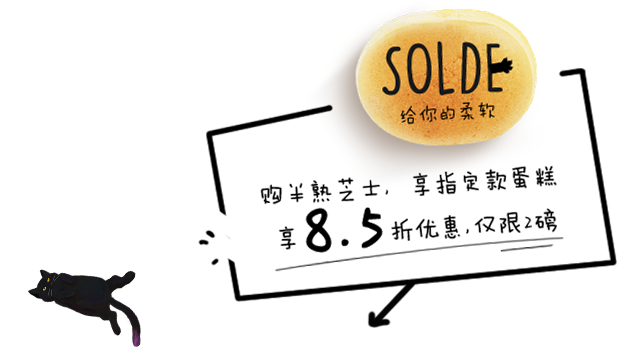
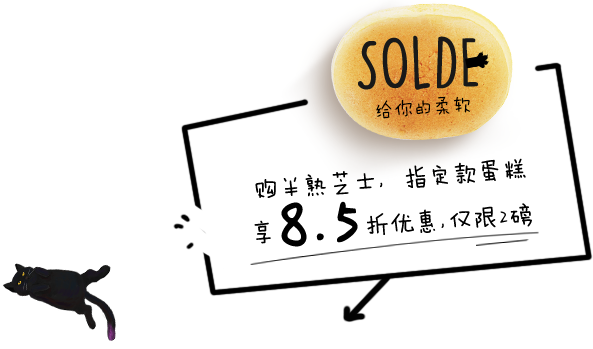
update files

diff --git a/src/cheese/js/cheeseRare.js b/src/cheese/js/cheeseRare.js
@@ -227,12 +227,12 @@
         "a2":{"x":0,"y":0,"w":180,"h":193,"offX":1,"offY":2,"sourceW":181,"sourceH":197,"duration":40}};
 
     var sloganMcData = {
-        "s6":{"x":0,"y":0,"w":591,"h":347,"offX":27,"offY":0,"sourceW":628,"sourceH":352,"duration":30},
-        "s1":{"x":593,"y":0,"w":615,"h":333,"offX":3,"offY":0,"sourceW":628,"sourceH":352,"duration":10},
-        "s2":{"x":1210,"y":0,"w":613,"h":333,"offX":5,"offY":0,"sourceW":628,"sourceH":352,"duration":10},
-        "s3":{"x":593,"y":666,"w":556,"h":326,"offX":66,"offY":3,"sourceW":628,"sourceH":352,"duration":3},
-        "s4":{"x":593,"y":335,"w":551,"h":329,"offX":67,"offY":0,"sourceW":628,"sourceH":352,"duration":3},
-        "s5":{"x":0,"y":349,"w":591,"h":347,"offX":27,"offY":0,"sourceW":628,"sourceH":352,"duration":6}};
+        "s6":{"x":0,"y":0,"w":591,"h":341,"offX":2,"offY":0,"sourceW":593,"sourceH":349,"duration":30},
+        "s1":{"x":595,"y":686,"w":593,"h":327,"offX":0,"offY":0,"sourceW":593,"sourceH":349,"duration":10},
+        "s2":{"x":0,"y":686,"w":593,"h":327,"offX":0,"offY":0,"sourceW":593,"sourceH":349,"duration":10},
+        "s3":{"x":1190,"y":0,"w":552,"h":323,"offX":41,"offY":0,"sourceW":593,"sourceH":349,"duration":3},
+        "s4":{"x":593,"y":0,"w":551,"h":323,"offX":42,"offY":0,"sourceW":593,"sourceH":349,"duration":3},
+        "s5":{"x":0,"y":343,"w":591,"h":341,"offX":2,"offY":0,"sourceW":593,"sourceH":349,"duration":6}};
 
     var footerCatMcData = {
         "f4":{"x":0,"y":0,"w":117,"h":236,"offX":3,"offY":2,"sourceW":122,"sourceH":240,"duration":6},

diff --git a/gulpfile-rev.js b/gulpfile-rev.js
@@ -10,6 +10,7 @@ var gulp         = require('gulp'),
     clean        = require('gulp-clean'),
     imagemin     = require('gulp-imagemin'),
     pngquant     = require('imagemin-pngquant'),
+    cache        = require('gulp-cache'),
     replace      = require('gulp-replace'),
     rev          = require('gulp-rev'),
     revCollector = require('gulp-rev-collector'),
@@ -56,11 +57,11 @@ var path = {
 //压缩图片 - imagemin
 gulp.task('imagemin', ["copy-files"], function () {
     return gulp.src(path.srcImg)
-        .pipe(imagemin({
+        .pipe(cache(imagemin({
             progressive: true,
             svgoPlugins: [{removeViewBox: false}],
             use: [pngquant()]
-        }))
+        })))
         .pipe(rev())
         .pipe(gulp.dest(path.distImgFolder))
         .pipe(rev.manifest())
@@ -70,10 +71,10 @@ gulp.task('imagemin', ["copy-files"], function () {
 //压缩图片 - tinypng
 gulp.task('tinypng', ["copy-files"], function () {
     return gulp.src(path.srcImg)
-        .pipe(tinypng({
+        .pipe(cache(tinypng({
             key:config.tinypngapi,
             log:true
-        }))
+        })))
         .pipe(rev())
         .pipe(gulp.dest(path.distImgFolder))
         .pipe(rev.manifest())
@@ -280,6 +281,11 @@ gulp.task('clean', function () {
 gulp.task('clean-tmp', function () {
     return gulp.src(path.tmp, {read: false})
         .pipe(clean({force: true}));
+});
+
+//清理cache
+gulp.task('clean-cache', function (done) {
+    return cache.clearAll(done);
 });
 
 //开启本地 Web 服务器功能

diff --git a/gulpfile.js b/gulpfile.js
@@ -10,6 +10,7 @@ var gulp         = require('gulp'),
     clean        = require('gulp-clean'),
     imagemin     = require('gulp-imagemin'),
     pngquant     = require('imagemin-pngquant'),
+    cache        = require('gulp-cache'),
     replace      = require('gulp-replace'),
     useref       = require('gulp-useref'),
     gulpif       = require('gulp-if'),
@@ -43,21 +44,21 @@ var path = {
 //压缩图片 - imagemin
 gulp.task('imagemin', ["copy-files"], function () {
     return gulp.src(path.srcImg)
-        .pipe(imagemin({
+        .pipe(cache(imagemin({
             progressive: true,
             svgoPlugins: [{removeViewBox: false}],
             use: [pngquant()]
-        }))
+        })))
         .pipe(gulp.dest(path.distImgFolder))
 });
 
 //压缩图片 - tinypng
 gulp.task('tinypng', ["copy-files"], function () {
     return gulp.src(path.srcImg)
-        .pipe(tinypng({
+        .pipe(cache(tinypng({
             key:config.tinypngapi,
             log:true
-        }))
+        })))
         .pipe(gulp.dest(path.distImgFolder))
 });
 
@@ -202,6 +203,11 @@ gulp.task('build-egret', function(done) {
 gulp.task('clean', function () {
     return gulp.src(path.dist, {read: false})
         .pipe(clean({force: true}));
+});
+
+//清理cache
+gulp.task('clean-cache', function (done) {
+    return cache.clearAll(done);
 });
 
 //开启本地 Web 服务器功能

diff --git a/src/cheese/sass/cheeseRare.scss b/src/cheese/sass/cheeseRare.scss
@@ -256,8 +256,8 @@ body{
 
 .section-fourth{
   .pd-banner {
-    width:628px;
-    height:352px;
+    width:593px;
+    height:349px;
     margin-top: -30px;
     margin-left:auto;
     margin-right:auto;

diff --git a/src/cheese/css/cheeseRare.css b/src/cheese/css/cheeseRare.css
@@ -288,8 +288,8 @@ body {
 }
 
 .section-fourth .pd-banner {
-  width: 628px;
-  height: 352px;
+  width: 593px;
+  height: 349px;
   margin-top: -30px;
   margin-left: auto;
   margin-right: auto;
